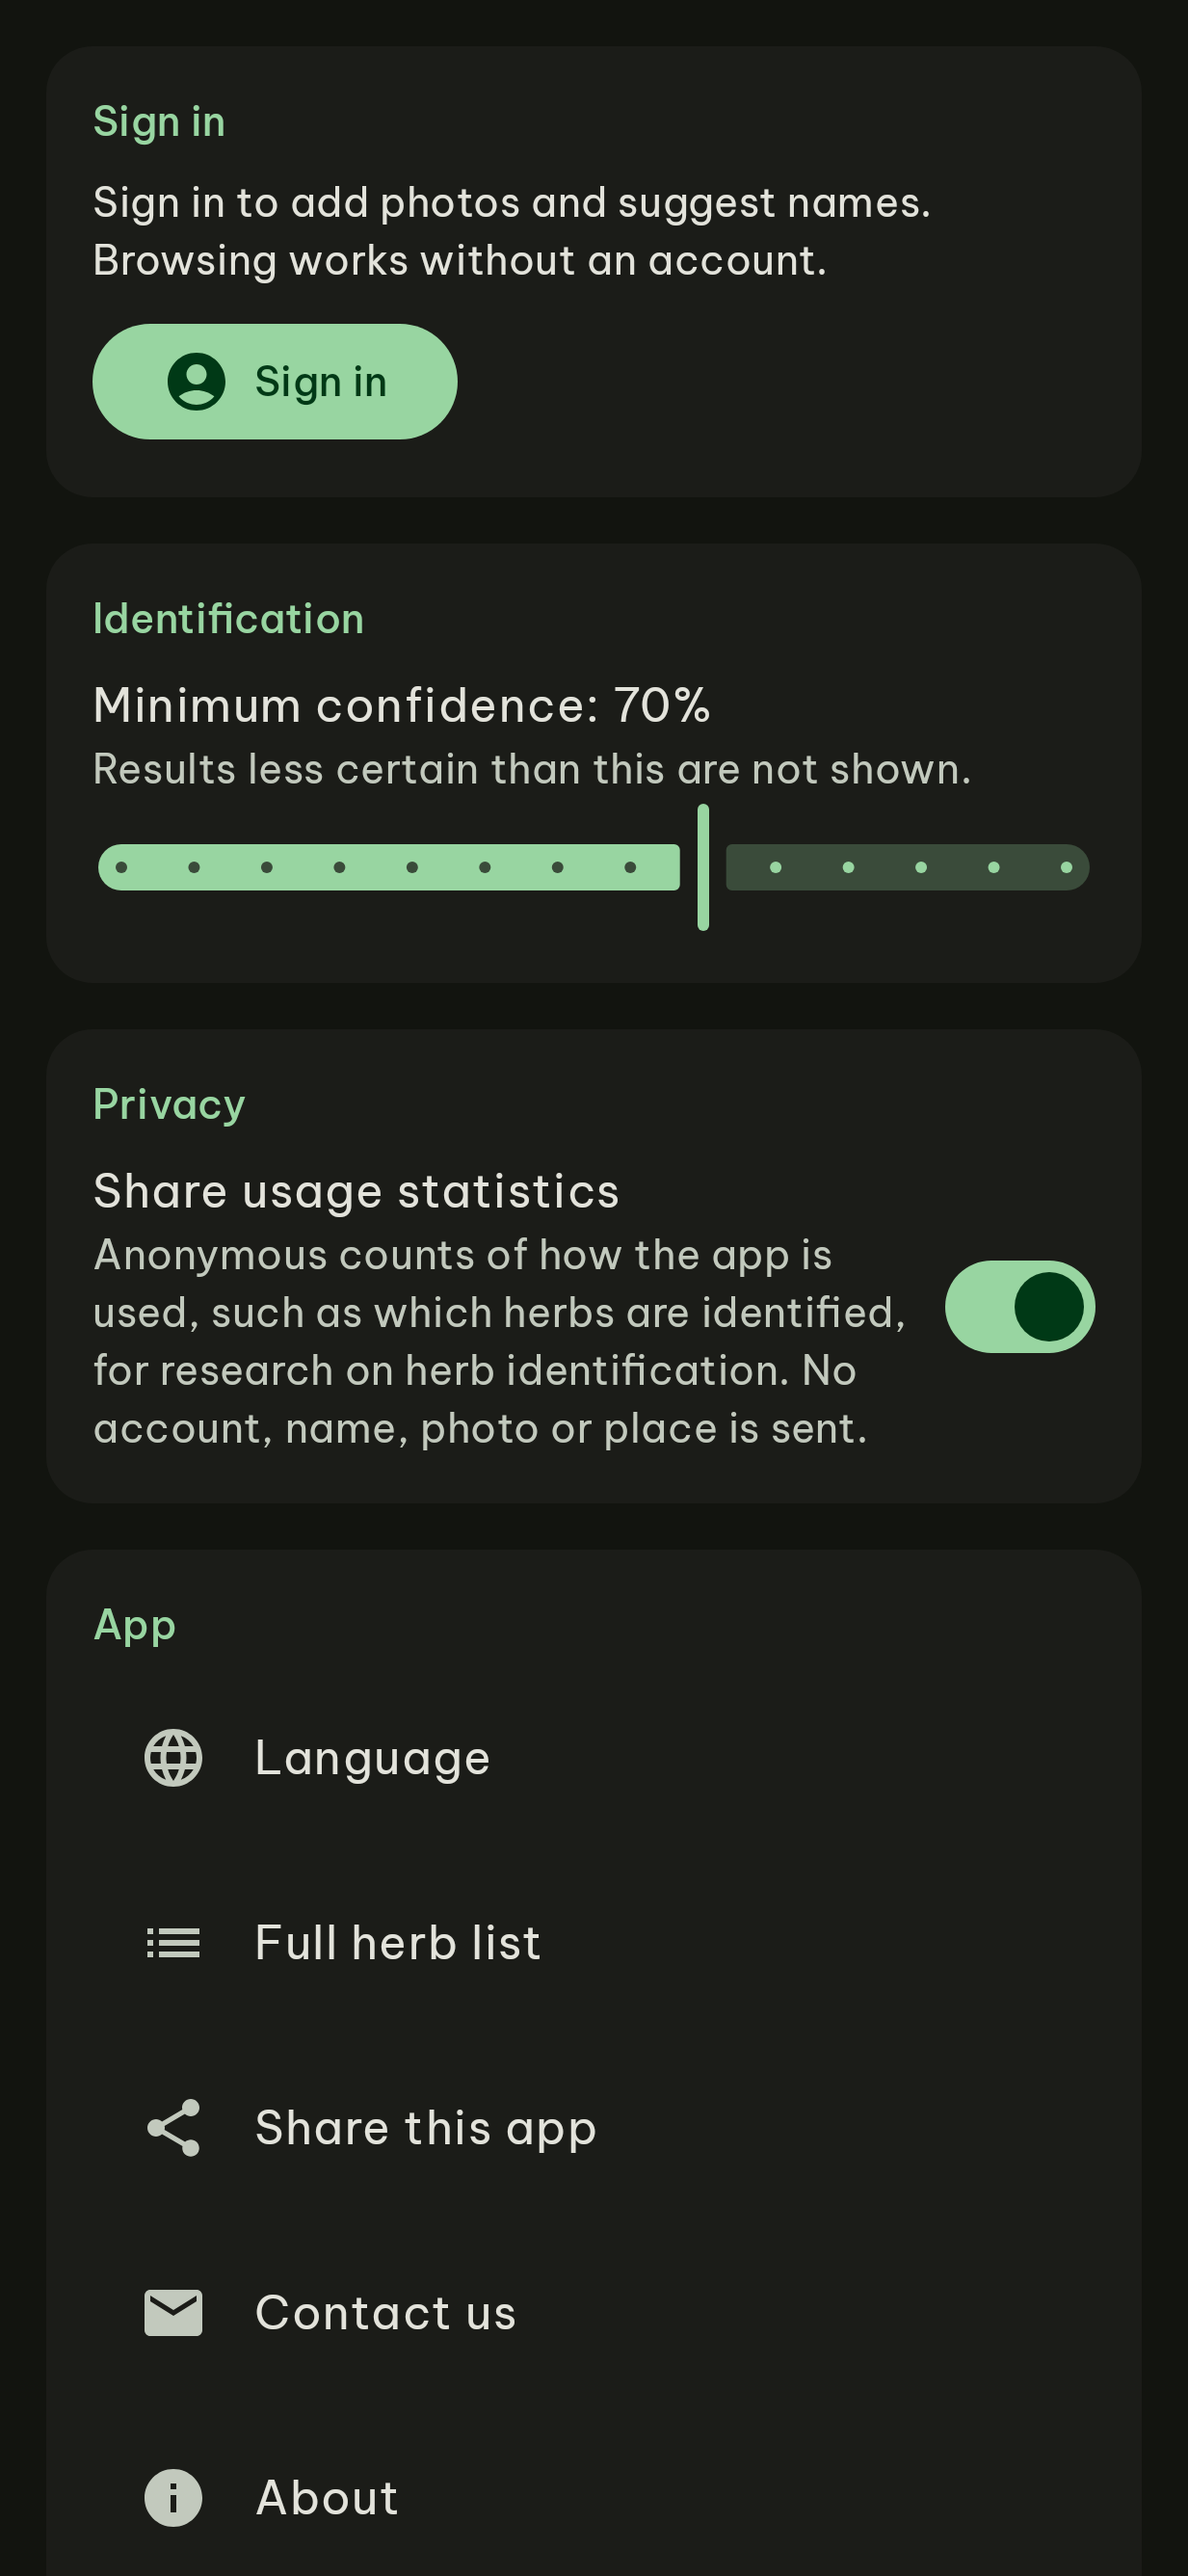
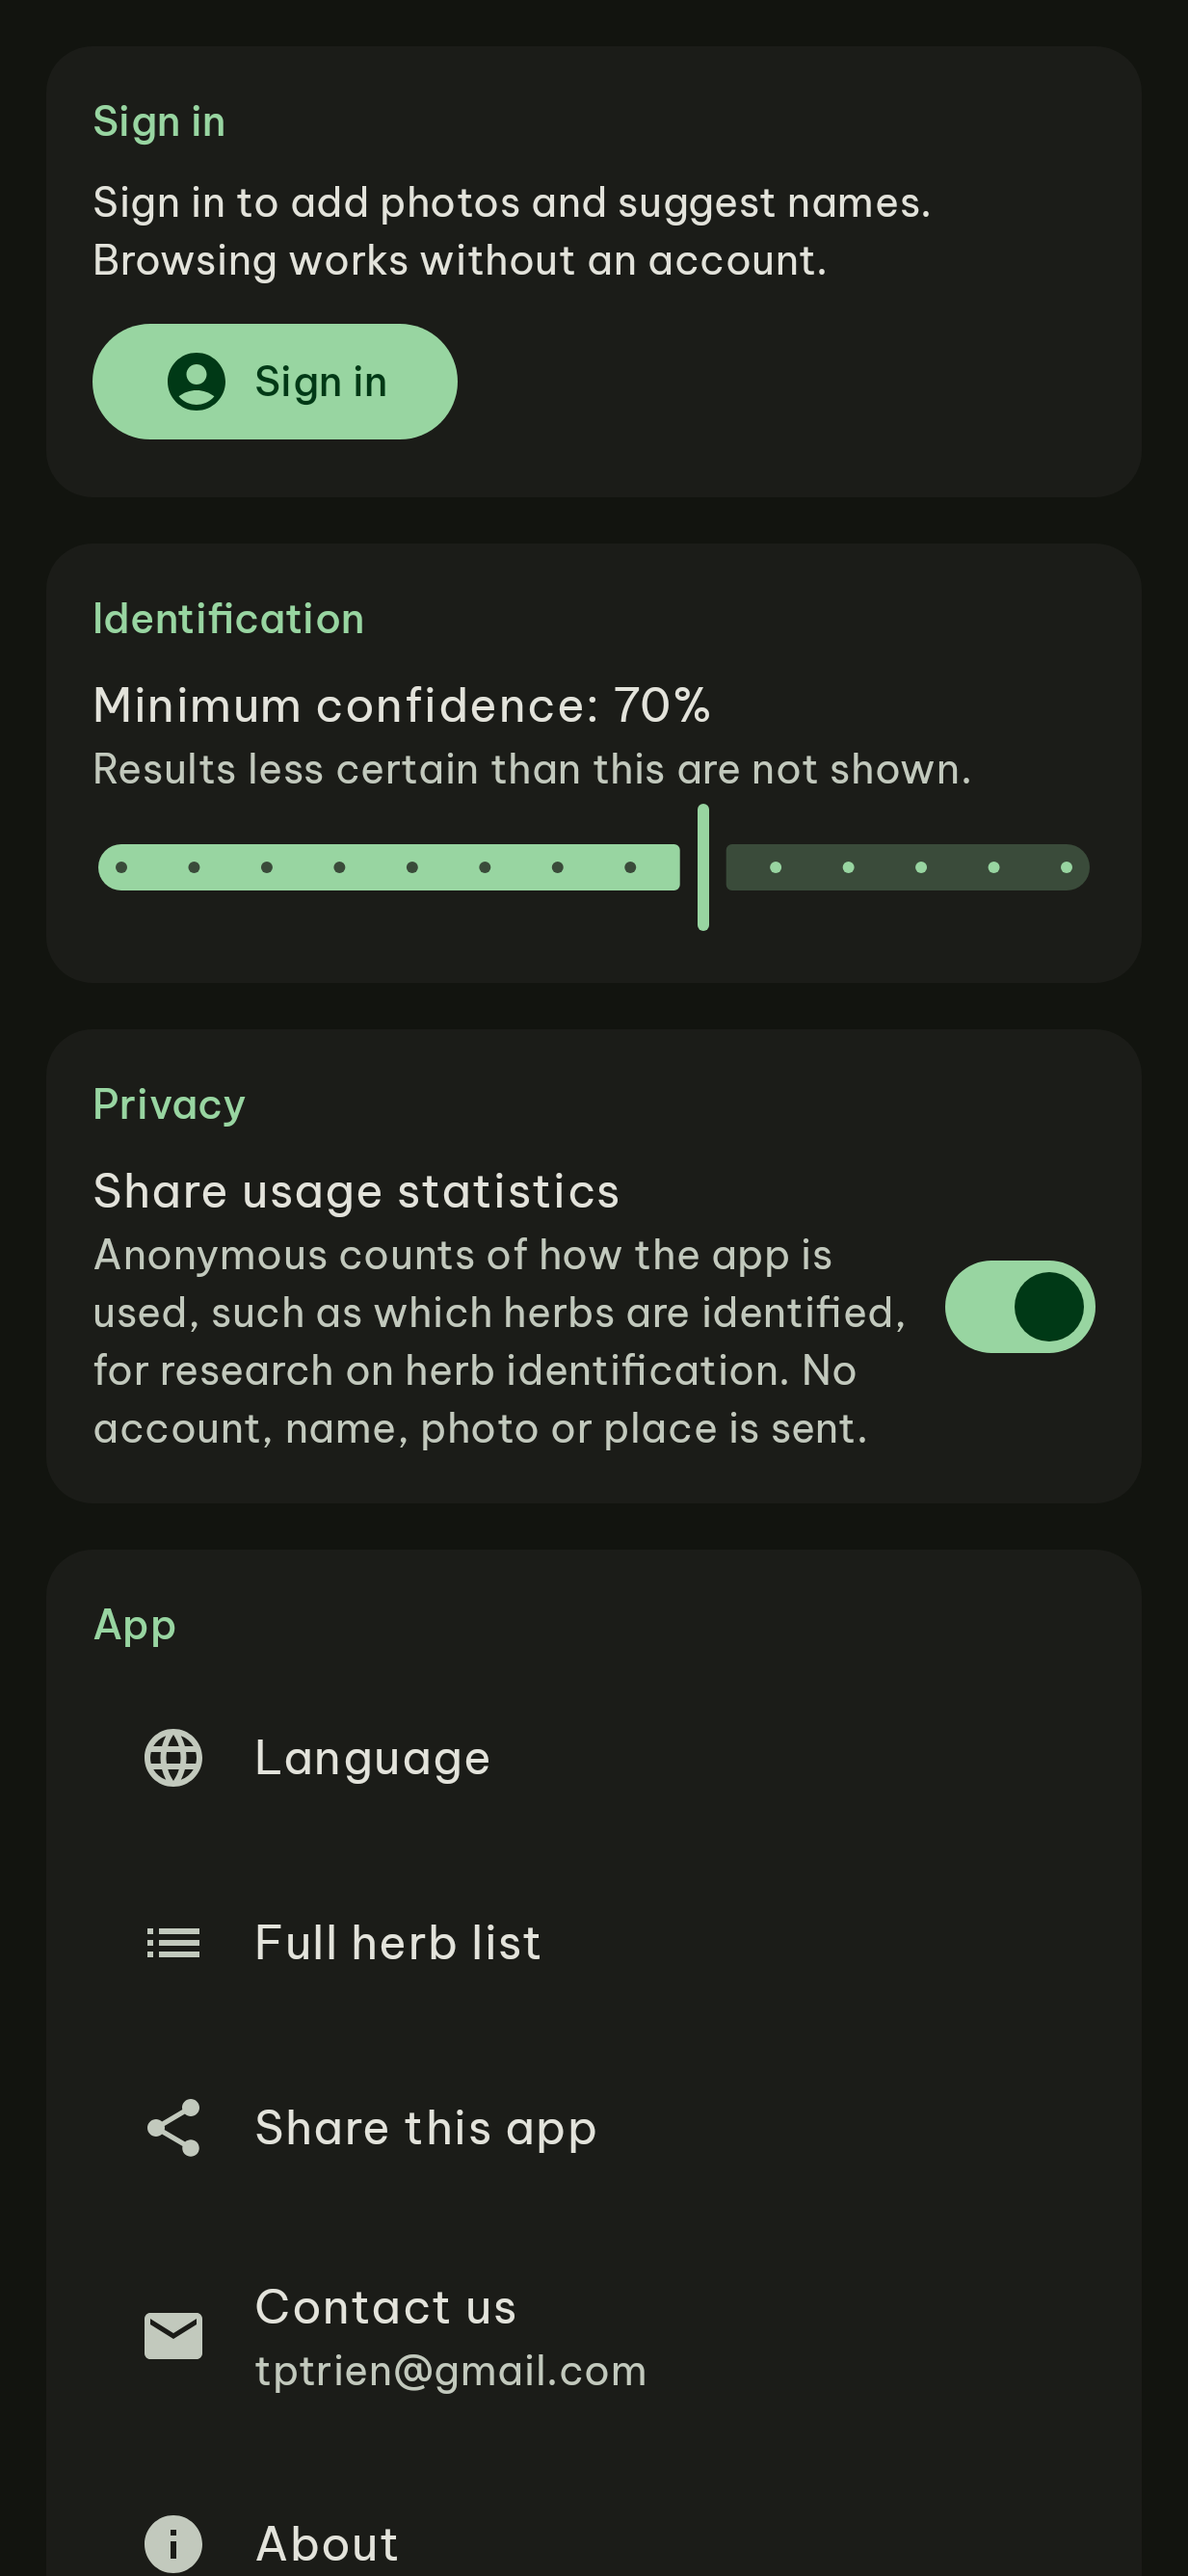
Web: no photo sharing; name suggestions and reports save from the browser
- The web hides Add photos (PlatformActions.sharePhotos, D19): it can't check a photo shows a
  plant before upload. Its location code goes with it
- Species keys in name suggestions and photo reports are stored as Int: in Kotlin/JS a Long
  isn't a JS number and Firestore's JS SDK refused the write ("Something went wrong")
- Profile screenshots show the contact address

diff --git a/docs/migration-plan.html b/docs/migration-plan.html
@@ -696,7 +696,7 @@ service cloud.firestore {
     <ul class="tasks">
       <li><input type="checkbox" id="p6-1" checked><label for="p6-1"><span class="tt">Time-boxed spike</span><span class="td">Results in §09: Firebase, App Check, sign-in, the Worker and Telex typing all work in the browser. A <code>getUserMedia</code> camera frame comes with the identification screen.</span></label></li>
       <li><input type="checkbox" id="p6-2" checked><label for="p6-2"><span class="tt">Choose Option A or B and record it</span><span class="td">Option A, on Kotlin/JS (D16).</span></label></li>
-      <li><input type="checkbox" id="p6-3"><label for="p6-3"><span class="tt">Build browse, search, identification and contributions</span><span class="td">The shared app runs in the browser (<code>:webApp</code>, 6 Oct). Every shared module has a JS target; Android and iOS share <code>mobileMain</code> for SQLite, DataStore files and content sync. In the browser: the catalog in memory, favourites, history and settings in <code>localStorage</code> (a small <code>KeyValueStore</code> over DataStore on the phones), the herb model in LiteRT.js, the camera through <code>getUserMedia</code>, Leaflet with OpenStreetMap, Nominatim for place names, Google sign-in in a popup. No object detection in the browser (ML Kit has no web SDK): "Pick a plant" is hidden, and the plant check before sharing uses the herb model. Left: R2 CORS (<code>workers/photo-upload/r2-cors.json</code>), testing sign-in, the camera and uploads in a real browser, and asking visitors before usage statistics (off until they allow them).</span></label></li>
+      <li><input type="checkbox" id="p6-3"><label for="p6-3"><span class="tt">Build browse, search, identification and contributions</span><span class="td">The shared app runs in the browser (<code>:webApp</code>, 6 Oct). Every shared module has a JS target; Android and iOS share <code>mobileMain</code> for SQLite, DataStore files and content sync. In the browser: the catalog in memory, favourites, history and settings in <code>localStorage</code> (a small <code>KeyValueStore</code> over DataStore on the phones), the herb model in LiteRT.js, the camera through <code>getUserMedia</code>, Leaflet with OpenStreetMap, Nominatim for place names, Google sign-in in a popup. No object detection in the browser (ML Kit has no web SDK): "Pick a plant" is hidden, and the plant check before sharing uses the herb model. R2 CORS applied (6 Oct). No photo sharing on the web (D19); usage statistics on by default (D18).</span></label></li>
       <li><input type="checkbox" id="p6-4"><label for="p6-4"><span class="tt">Publish the web app</span><span class="td">Cloudflare Pages, replacing the temporary site; keep the legal pages and the Search Console tag. With the other platforms at release (D15).</span></label></li>
       <li><input type="checkbox" id="p6-5"><label for="p6-5"><span class="tt">Remove the spike</span><span class="td"><code>spikes/web</code> and <code>:spikes:webCompose</code>, once the web app covers what they checked.</span></label></li>
     </ul>
@@ -760,7 +760,7 @@ service cloud.firestore {
     <div class="decision"><div class="dno">D16</div><div><b>The web app is the shared Compose app on Kotlin/JS</b> (Option A). Yes (6 Oct): Firebase works through GitLive, text handling is 3–4 × faster than on Wasm, the bundle is the same size. Herb identification with LiteRT.js; settings in <code>localStorage</code>. App Check for the web and Telex typing were checked on 6 Oct.</div></div>
     <div class="decision"><div class="dno">D17</div><div><b>Species are named in Vietnamese first only for readers in or from Vietnam</b>: device language Vietnamese, region Vietnam, or (on the web, which can't see the visitor's country) Vietnam's time zone. Everyone else sees the English name first (or the scientific name), with the Vietnamese name underneath. The interface language still follows the device or the in-app switch (user, 6 Oct). More languages: Phase 8.</div></div>
     <div class="decision"><div class="dno">D18</div><div><b>Usage statistics are on by default on the web too</b>, as in the apps (user, 6 Oct), with nothing for advertising (consent for ad storage and personalisation denied) and the Profile switch to turn them off, which stops Analytics before it starts. Visitors from the EU would normally be asked first; revisit with the ethics approval (phase R).</div></div>
-    <div class="decision"><div class="dno">D19</div><div><b>No automatic plant check for photos shared from the web.</b> ML Kit's general labeller has no web version, and the herb model refused plants it doesn't know (a fern). Web uploads rely on reports and the administrator's review (D13).</div></div>
+    <div class="decision"><div class="dno">D19</div><div><b>The web app doesn't share photos</b> (user, 6 Oct): it can't check a photo shows a plant before upload (ML Kit's general labeller has no web version, and the herb model refused plants it doesn't know). Sharing photos stays in the apps; the web identifies from photos and the camera, and suggests names. Cloud Vision through the upload Worker would allow it later (1,000 free checks a month).</div></div>
   </div>
 </section>
 

diff --git a/composeApp/src/jsMain/kotlin/com/uri/lee/dl/shared/WebApp.kt b/composeApp/src/jsMain/kotlin/com/uri/lee/dl/shared/WebApp.kt
@@ -7,7 +7,6 @@ import androidx.compose.ui.platform.LocalUriHandler
 import androidx.compose.ui.platform.UriHandler
 import androidx.compose.ui.window.ComposeViewport
 import com.uri.lee.dl.core.common.AppInfo
-import com.uri.lee.dl.domain.model.GeoLocation
 import dev.gitlive.firebase.FirebaseOptions
 import com.uri.lee.dl.core.ml.WebLocalImage
 import com.uri.lee.dl.domain.media.PhotoPick
@@ -70,11 +69,12 @@ fun startWebApp(config: WebConfig) {
     }.koin
     koin.runStartupTasks()
     val actions = PlatformActions(
+        // Photos are for identifying only: sharing them is in the apps (D19)
         pickPhotos = ::pickPhotos,
+        sharePhotos = false,
         requestGoogleSignIn = ::googleSignInPopup,
         onOpenStore = {},
         onExit = {},
-        currentLocation = ::currentLocation,
         onShareApp = { share(config.siteUrl) },
     )
     ignoreCancelledRequests()
@@ -123,30 +123,6 @@ private fun pickPhotos(pick: PhotoPick) {
     // Chrome and Safari report a cancelled chooser
     input.addEventListener("cancel", { pick.onPicked(emptyList()) })
     input.click()
-}
-
-/** The browser's location, after it asks; null if refused or unavailable. */
-private fun currentLocation(onResult: (GeoLocation?) -> Unit) {
-    val geolocation = window.navigator.asDynamic().geolocation
-    if (geolocation == null) return onResult(null)
-    // Report once: a late error (e.g. a timeout) must not replace a position already found
-    var reported = false
-    fun report(location: GeoLocation?) {
-        if (!reported) onResult(location)
-        reported = true
-    }
-    geolocation.getCurrentPosition(
-        { position: dynamic ->
-            report(GeoLocation(latitude = position.coords.latitude as Double, longitude = position.coords.longitude as Double))
-        },
-        { error: dynamic ->
-            // 1: refused (by the visitor, or by the system for this browser), 2: unavailable, 3: timed out
-            console.warn("Location unavailable: code ${error.code}, ${error.message}")
-            report(null)
-        },
-        // Wi-Fi positioning is enough for a photo's place, and a computer has no GPS to wait for
-        kotlin.js.json("enableHighAccuracy" to false, "timeout" to 20_000, "maximumAge" to 60_000),
-    )
 }
 
 /** The system share sheet where there is one (phones), otherwise the link goes to the clipboard. */

diff --git a/core/firebase/src/commonMain/kotlin/com/uri/lee/dl/core/firebase/FirestoreClient.kt b/core/firebase/src/commonMain/kotlin/com/uri/lee/dl/core/firebase/FirestoreClient.kt
@@ -37,7 +37,7 @@ class FirestoreClient internal constructor(private val db: FirebaseFirestore) {
     }
 
     suspend fun addNameSuggestion(speciesKey: Long, vietnameseName: String, uid: String) {
-        db.collection(NAME_SUGGESTIONS).add(NameSuggestion(speciesKey, vietnameseName, uid))
+        db.collection(NAME_SUGGESTIONS).add(NameSuggestion(speciesKey.asStoredKey(), vietnameseName, uid))
     }
 
     suspend fun legacyUserLibrary(uid: String): LegacyUserLibrary {
@@ -63,7 +63,7 @@ class FirestoreClient internal constructor(private val db: FirebaseFirestore) {
      * reporter is recorded when signed in; anyone may report.
      */
     suspend fun addPhotoReport(speciesKey: Long, url: String, uploaderId: String?, reason: String, reporterUid: String?) {
-        db.collection(PHOTO_REPORTS).add(PhotoReport(speciesKey, url, uploaderId, reason, reporterUid))
+        db.collection(PHOTO_REPORTS).add(PhotoReport(speciesKey.asStoredKey(), url, uploaderId, reason, reporterUid))
     }
 
     /** Removes `users/{uid}`, where old app versions kept the user's name and email. */
@@ -71,9 +71,18 @@ class FirestoreClient internal constructor(private val db: FirebaseFirestore) {
         db.collection(USERS).document(uid).delete()
     }
 
+    /**
+     * Species keys are stored as Int: in the browser a Kotlin Long isn't a JS number, and
+     * Firestore's JS SDK refuses it. GBIF keys (about 12 million today) fit easily.
+     */
+    private fun Long.asStoredKey(): Int {
+        require(this in 0..Int.MAX_VALUE) { "Species key out of range: $this" }
+        return toInt()
+    }
+
     @Serializable
     private data class PhotoReport(
-        val speciesKey: Long,
+        val speciesKey: Int,
         val url: String,
         val uploaderId: String?,
         val reason: String,
@@ -83,7 +92,7 @@ class FirestoreClient internal constructor(private val db: FirebaseFirestore) {
 
     @Serializable
     private data class NameSuggestion(
-        val speciesKey: Long,
+        val speciesKey: Int,
         val viName: String,
         val uid: String,
         val createdAt: BaseTimestamp = Timestamp.ServerTimestamp,

diff --git a/composeApp/src/commonMain/kotlin/com/uri/lee/dl/shared/App.kt b/composeApp/src/commonMain/kotlin/com/uri/lee/dl/shared/App.kt
@@ -110,7 +110,7 @@ private fun AppContent(actions: PlatformActions, openHerbId: Long?) {
     val wide = currentWindowAdaptiveInfo().windowSizeClass.isWidthAtLeastBreakpoint(WindowSizeClass.WIDTH_DP_MEDIUM_LOWER_BOUND)
     val fullScreen = listOf(SignInDestination::class, DeleteAccountDestination::class, ContributeDestination::class, SpeciesDestination::class).any { current?.hasRoute(it) == true }
     val signIn = { navController.navigate(SignInDestination) { launchSingleTop = true } }
-    val addPhotos = { herbId: Long -> navController.navigate(ContributeDestination(herbId)) }
+    val addPhotos = if (actions.sharePhotos) { herbId: Long -> navController.navigate(ContributeDestination(herbId)) } else null
     NavigationSuiteScaffold(
         layoutType = when {
             fullScreen -> NavigationSuiteType.None

diff --git a/composeApp/src/commonMain/kotlin/com/uri/lee/dl/shared/PlatformActions.kt b/composeApp/src/commonMain/kotlin/com/uri/lee/dl/shared/PlatformActions.kt
@@ -9,6 +9,11 @@ import com.uri.lee.dl.feature.auth.GoogleSignInRequest
 data class PlatformActions(
     /** Opens the system photo picker. */
     val pickPhotos: PickPhotos,
+    /**
+     * Whether users can share photos of a species. Not on the web (user, 6 Oct): it can't check a
+     * photo shows a plant before upload, so only the apps share photos.
+     */
+    val sharePhotos: Boolean = true,
     val requestGoogleSignIn: GoogleSignInRequest,
     /** Sign in with Apple (iOS). */
     val requestAppleSignIn: AppleSignInRequest? = null,

diff --git a/composeApp/src/commonMain/kotlin/com/uri/lee/dl/shared/SpeciesListDetail.kt b/composeApp/src/commonMain/kotlin/com/uri/lee/dl/shared/SpeciesListDetail.kt
@@ -34,7 +34,8 @@ import org.jetbrains.compose.resources.stringResource
 @Composable
 internal fun SpeciesListDetail(
     initialSelection: Long?,
-    onAddPhotos: (Long) -> Unit,
+    /** Null hides adding photos. */
+    onAddPhotos: ((Long) -> Unit)?,
     onSignIn: () -> Unit,
     list: @Composable (selectedId: Long?, open: (Long) -> Unit) -> Unit,
 ) {
